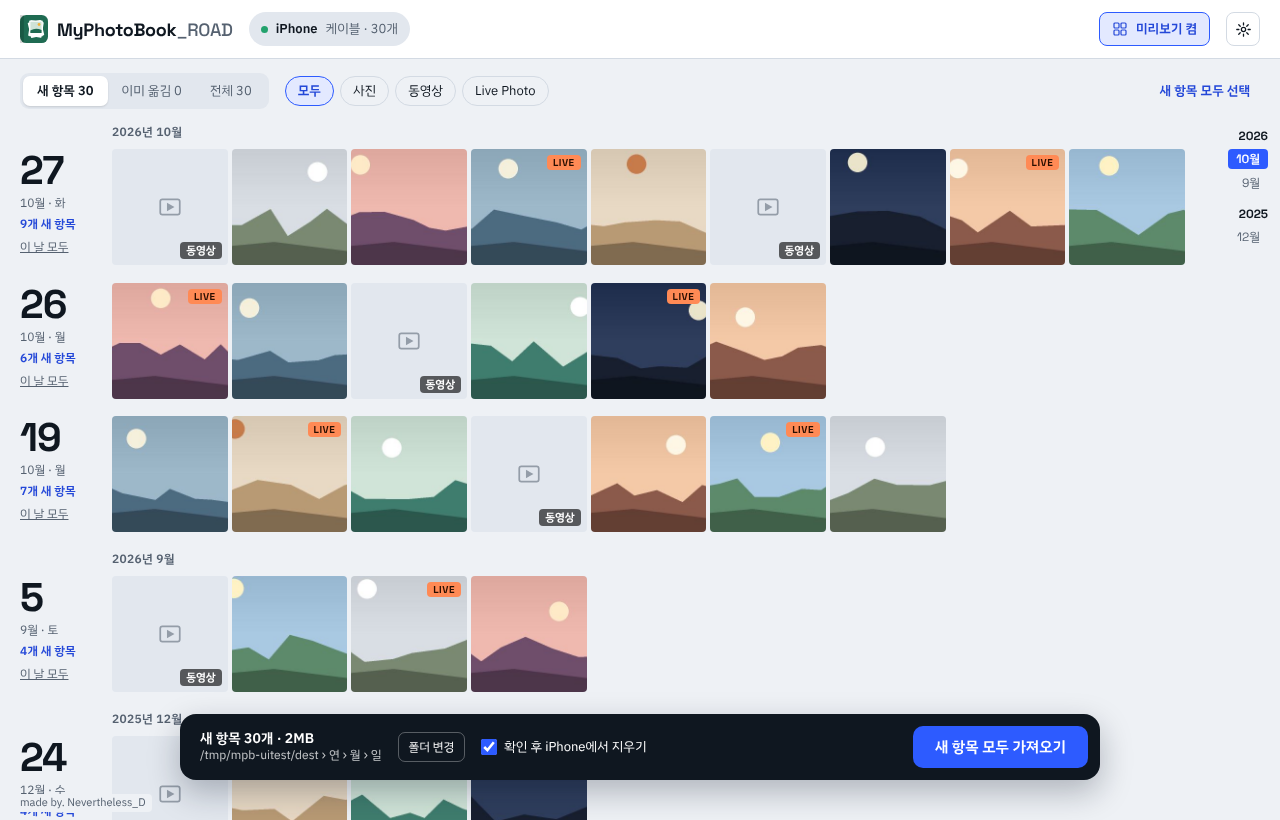
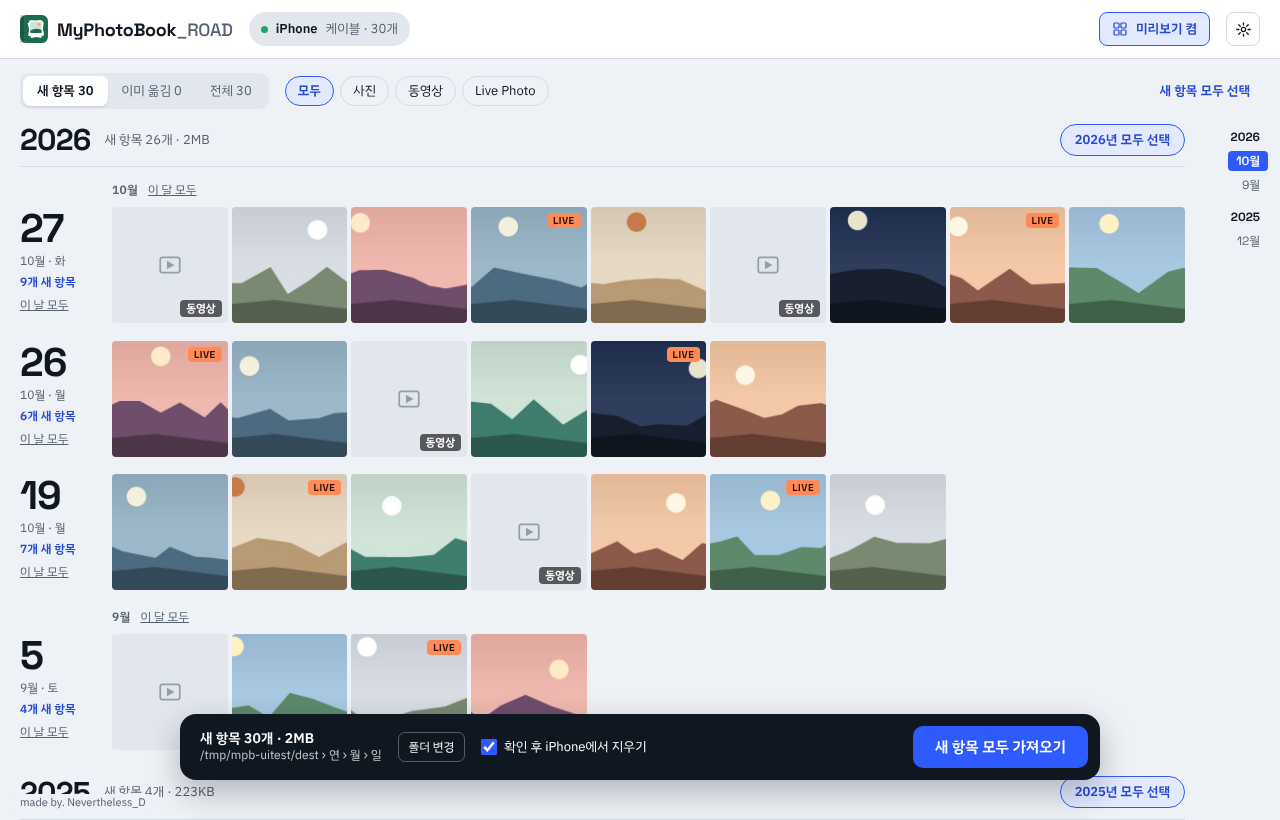
연도별로 통째로 고르기 · 연도로 바로 가기 · 이 달 모두 (v1.0.1)
Claude-Session: https://claude.ai/code/session_01EZmtXyegEgV5JfMnh8ypxP

diff --git a/engine/web/js/app.js b/engine/web/js/app.js
@@ -186,9 +186,9 @@ function renderMainShell() {
     syncSel();
   });
   $('#rail').addEventListener('click', e => {
-    const b = e.target.closest('button[data-m]');
+    const b = e.target.closest('button[data-m], button[data-y]');
     if (!b) return;
-    const sec = sc.querySelector(`[data-month="${b.dataset.m}"]`);
+    const sec = b.dataset.y ? sc.querySelector(`.yearhd[data-year="${b.dataset.y}"]`) : sc.querySelector(`[data-month="${b.dataset.m}"]`);
     if (sec) sc.scrollTo({ top: sec.offsetTop - sc.offsetTop, behavior: 'smooth' });
   });
   $('#actbar').addEventListener('click', onBarClick);
@@ -262,13 +262,28 @@ function renderList() {
     buf = []; cnt = 0; newCnt = 0;
   };
   const months = [];
+  const years = {};
+  for (const a of list) {
+    const y = new Date(a.d * 1000).getFullYear();
+    const yr = years[y] || (years[y] = { n: 0, s: 0, all: 0 });
+    yr.all++;
+    if (pickable(a)) { yr.n++; yr.s += a.s; }
+  }
+  let curYear = null;
   for (const a of list) {
     const d = new Date(a.d * 1000);
     const dk = dayKey(d), mk = dk.slice(0, 7);
     if (dk !== curDay) {
       flush();
+      if (d.getFullYear() !== curYear) {
+        curYear = d.getFullYear();
+        const yr = years[curYear];
+        const what = S.tab === 'done' ? `${N(yr.n)}개 · ${bytes(yr.s)}` : yr.n ? `새 항목 ${N(yr.n)}개 · ${bytes(yr.s)}` : `${N(yr.all)}개 · 모두 옮김`;
+        out.push(`<div class="yearhd" data-year="${curYear}"><span class="yy">${curYear}</span><span class="yc">${what}</span>` +
+          (yr.n ? `<button type="button" class="ysel" data-year="${curYear}">${curYear}년 모두 선택</button>` : '') + `</div>`);
+      }
       if (mk !== curMonth) {
-        out.push(`<div class="month">${d.getFullYear()}년 ${d.getMonth() + 1}월</div>`);
+        out.push(`<div class="month" data-m="${mk}"><span>${d.getMonth() + 1}월</span><button type="button" data-month="${mk}">이 달 모두</button></div>`);
         months.push(mk);
       }
       curDay = dk; curMonth = mk; d0 = d;
@@ -278,11 +293,12 @@ function renderList() {
   flush();
   sc.innerHTML = out.join('');
   sc.scrollTop = top;
+  syncGroupButtons();
   // 연 · 월 이동 막대
   let rail = '', y = '';
   for (const m of months) {
     const [yy, mm] = m.split('-');
-    if (yy !== y) { rail += `<span class="y">${yy}</span>`; y = yy; }
+    if (yy !== y) { rail += `<button type="button" class="y" data-y="${yy}" title="${yy}년으로 가기">${yy}</button>`; y = yy; }
     rail += `<button type="button" data-m="${m}">${Number(mm)}월</button>`;
   }
   $('#rail').innerHTML = rail;
@@ -344,22 +360,56 @@ function renderBar() {
   }
 }
 
+// 고를 수 있는 항목: '이미 옮김' 탭에서는 모두, 그 밖에서는 아직 옮기지 않은 것
+function pickable(a) { return S.tab === 'done' || !a.done; }
+
+function yearOf(a) { return String(new Date(a.d * 1000).getFullYear()); }
+function monthOf(a) { return dayKey(new Date(a.d * 1000)).slice(0, 7); }
+
+// 묶음(연 · 달 · 날)을 한꺼번에 고르거나 풀어요
+function toggleGroup(match) {
+  const pick = visible().filter(a => pickable(a) && match(a));
+  const all = pick.length && pick.every(a => S.sel.has(a.id));
+  pick.forEach(a => all ? S.sel.delete(a.id) : S.sel.add(a.id));
+  syncSel();
+  return !all;
+}
+
+function syncGroupButtons() {
+  const v = visible().filter(pickable);
+  const byYear = {};
+  for (const a of v) {
+    const y = yearOf(a);
+    const g = byYear[y] || (byYear[y] = { n: 0, sel: 0 });
+    g.n++; if (S.sel.has(a.id)) g.sel++;
+  }
+  $$('#scroller .ysel').forEach(b => {
+    const g = byYear[b.dataset.year] || { n: 0, sel: 0 };
+    const on = g.n > 0 && g.sel === g.n;
+    b.classList.toggle('on', on);
+    b.textContent = on ? `${b.dataset.year}년 선택 풀기` : g.sel ? `${b.dataset.year}년 모두 선택 (${N(g.sel)}/${N(g.n)})` : `${b.dataset.year}년 모두 선택`;
+  });
+}
+
 function syncSel() {
   $$('#scroller .tile').forEach(t => { const on = S.sel.has(t.dataset.id); t.classList.toggle('sel', on); t.setAttribute('aria-pressed', String(on)); });
   $$('#scroller input[data-id]').forEach(i => { i.checked = S.sel.has(i.dataset.id); });
+  syncGroupButtons();
   renderBar();
 }
 
 function onListClick(e) {
-  const dayBtn = e.target.closest('button[data-day]');
-  if (dayBtn) {
-    const day = dayBtn.dataset.day;
-    const pick = visible().filter(a => dayKey(new Date(a.d * 1000)) === day && (S.tab === 'done' || !a.done));
-    const all = pick.length && pick.every(a => S.sel.has(a.id));
-    pick.forEach(a => all ? S.sel.delete(a.id) : S.sel.add(a.id));
-    syncSel();
+  const yBtn = e.target.closest('button[data-year]');
+  if (yBtn) {
+    const y = yBtn.dataset.year;
+    const on = toggleGroup(a => yearOf(a) === y);
+    if (on) toast(`${y}년 사진을 모두 골랐어요. 아래 '가져오기'를 누르면 한 번에 옮겨요`);
     return;
   }
+  const mBtn = e.target.closest('button[data-month]');
+  if (mBtn) { toggleGroup(a => monthOf(a) === mBtn.dataset.month); return; }
+  const dayBtn = e.target.closest('button[data-day]');
+  if (dayBtn) { toggleGroup(a => dayKey(new Date(a.d * 1000)) === dayBtn.dataset.day); return; }
   const t = e.target.closest('.tile');
   if (!t) return;
   const id = t.dataset.id;

diff --git a/engine/web/css/app.css b/engine/web/css/app.css
@@ -83,8 +83,15 @@ button:disabled { cursor: default; opacity: .45; }
 /* 본문 */
 .body { flex: 1; min-height: 0; display: flex; gap: 12px; padding: 0 8px 0 20px; }
 .scroller { flex: 1; min-width: 0; overflow-y: auto; padding-bottom: 130px; scrollbar-gutter: stable; }
-.month { font-size: 12px; font-weight: 600; color: var(--muted); letter-spacing: .3px; margin: 14px 0 8px 92px; }
-.month:first-child { margin-top: 0; }
+.yearhd { display: flex; flex-wrap: wrap; align-items: center; gap: 6px 14px; margin: 26px 0 10px; padding-bottom: 10px; border-bottom: 1px solid var(--line); }
+.yearhd:first-child { margin-top: 0; }
+.yearhd .yy { font-family: var(--display); font-weight: 700; font-size: 30px; letter-spacing: -.8px; line-height: 1.1; }
+.yearhd .yc { font-size: 13px; color: var(--muted); }
+.yearhd .ysel { margin-left: auto; height: 32px; padding: 0 14px; border: 1px solid var(--accent); border-radius: 16px; background: var(--accent-soft);
+  color: var(--accent-text); font-size: 13px; font-weight: 600; white-space: nowrap; }
+.yearhd .ysel.on { background: var(--accent); color: #fff; }
+.month { display: flex; align-items: baseline; gap: 10px; font-size: 12px; font-weight: 600; color: var(--muted); letter-spacing: .3px; margin: 14px 0 8px 92px; }
+.month button { padding: 0; border: 0; background: transparent; color: var(--muted); font-size: 12px; font-weight: 400; text-decoration: underline; }
 .sec { display: flex; flex-wrap: wrap; gap: 12px 16px; margin-bottom: 18px; content-visibility: auto; contain-intrinsic-size: auto 240px; }
 .sec .date { flex: 0 0 76px; display: flex; flex-direction: column; line-height: 1.1; }
 .sec .date .d { font-family: var(--display); font-weight: 700; font-size: 40px; letter-spacing: -1px; }
@@ -128,8 +135,9 @@ button:disabled { cursor: default; opacity: .45; }
 .rail { flex: 0 0 60px; overflow-y: auto; display: flex; flex-direction: column; align-items: flex-end; gap: 4px; padding: 4px 4px 130px 0;
   font-family: var(--display); font-size: 12px; color: var(--muted); scrollbar-width: none; }
 .rail::-webkit-scrollbar { display: none; }
-.rail .y { font-weight: 700; color: var(--ink); margin-top: 8px; }
-.rail .y:first-child { margin-top: 0; }
+.rail button.y { font-weight: 700; color: var(--ink); margin-top: 8px; }
+.rail button.y:first-child { margin-top: 0; }
+.rail button.y:hover { background: var(--chip); }
 .rail button { border: 0; background: transparent; padding: 1px 8px; border-radius: 4px; color: var(--muted); font-family: var(--display); font-size: 12px; }
 .rail button.on { background: var(--accent); color: #fff; font-weight: 600; }
 

diff --git a/docs/guide.html b/docs/guide.html
@@ -88,11 +88,11 @@ h2 small { font-size: 14px; font-weight: 400; color: var(--muted); }
   <div class="row c55">
     <div class="card shot"><img src="shots/main.png" alt=""></div>
     <div class="card">
-      <div class="kv"><b>고르기</b><span>사진을 누르면 골라져요. <strong>Shift</strong>를 누른 채 누르면 사이를 한꺼번에, 날짜 옆 <strong>‘이 날 모두’</strong>로 하루치를 골라요. ⌘A는 보이는 것 모두.</span></div>
+      <div class="kv"><b>고르기</b><span>사진을 누르면 골라져요. <strong>Shift</strong>를 누른 채 누르면 사이를 한꺼번에, 날짜 옆 <strong>‘이 날 모두’</strong>, 달 옆 <strong>‘이 달 모두’</strong>, 연도 옆 <strong>‘2021년 모두 선택’</strong>으로 한 해를 통째로 골라요. ⌘A는 보이는 것 모두.</span></div>
       <div class="kv"><b>가져오기</b><span>아래 막대의 <strong>가져오기</strong>. 아무것도 안 고르면 <strong>새 항목 모두 가져오기</strong>예요. 한 번에 옮기는 개수에 제한이 없어요.</span></div>
       <div class="kv"><b>확인</b><span>복사한 뒤 <strong>크기와 내용을 원본과 하나씩 비교</strong>해요. 확인이 끝난 것만 정리 폴더에 들어가요.</span></div>
       <div class="kv"><b>지우기</b><span><strong>‘확인 후 iPhone에서 지우기’</strong>가 켜져 있으면 다 옮긴 뒤 한 번 더 물어봐요. 사진을 골라 <strong>선택 항목 지우기</strong>도 돼요 — 맥에 없는 사진은 <strong>먼저 옮긴 뒤 지우기</strong>가 기본이에요.</span></div>
-      <div class="kv"><b>걸러 보기</b><span><strong>새 항목 · 이미 옮김 · 전체</strong>, 사진 · 동영상 · Live Photo. 오른쪽 <strong>연 · 월</strong>을 누르면 그 달로 가요.</span></div>
+      <div class="kv"><b>걸러 보기</b><span><strong>새 항목 · 이미 옮김 · 전체</strong>, 사진 · 동영상 · Live Photo. 오른쪽 <strong>연도 · 월</strong>을 누르면 그 해 · 그 달로 바로 가요.</span></div>
       <div class="kv"><b>미리보기</b><span>위쪽 <strong>미리보기 켬/끔</strong>. 끄면 그림 없이 목록으로 보여 줘서 훨씬 빨라요.</span></div>
     </div>
   </div>

diff --git a/scripts/ui-test.py b/scripts/ui-test.py
@@ -60,7 +60,24 @@ async def main():
         n = await pg.locator(".tile").count()
         ok("메인: 사진 30개(Live 묶음 포함) 보임", n == 30, f"{n}개")
         ok("Live Photo 표시 8개", await pg.locator(".tile .live").count() == 8)
-        ok("연/월 이동 막대", await pg.locator("#rail button").count() == 3)
+        ok("연/월 이동 막대 (연 2 · 월 3)", await pg.locator("#rail button[data-y]").count() == 2 and await pg.locator("#rail button[data-m]").count() == 3)
+        # 연도 통째로 고르기
+        await pg.click(".ysel[data-year='2026']")
+        txt = await pg.locator(".actbar .info b").inner_text()
+        ok("2026년 모두 선택 → 26개", txt.startswith("26개 선택"), txt)
+        ok("연도 버튼이 '선택 풀기'로 바뀜", "선택 풀기" in await pg.locator(".ysel[data-year='2026']").inner_text())
+        await pg.click("#rail button[data-y='2025']")
+        await pg.wait_for_timeout(900)
+        await pg.screenshot(path=f"{OUT}/01b-year.png")
+        await pg.click(".ysel[data-year='2025']")
+        txt = await pg.locator(".actbar .info b").inner_text()
+        ok("2025년도 더해서 30개", txt.startswith("30개 선택"), txt)
+        await pg.click(".ysel[data-year='2026']"); await pg.click(".ysel[data-year='2025']")
+        ok("다시 누르면 모두 풀림", "새 항목 30개" in await pg.locator(".actbar .info b").inner_text())
+        await pg.click(".month button[data-month='2026-10']")
+        ok("이 달 모두 (10월 22개)", (await pg.locator(".actbar .info b").inner_text()).startswith("22개 선택"))
+        await pg.click(".month button[data-month='2026-10']")
+        await pg.locator("#scroller").evaluate("e => e.scrollTop = 0")
 
         tiles = pg.locator(".tile")
         await tiles.nth(1).click(); await tiles.nth(2).click()

diff --git a/PROJECT_NOTES.md b/PROJECT_NOTES.md
@@ -29,6 +29,9 @@ iPhone 사진 · 동영상을 케이블로 맥(Apple Silicon)에 옮기는 앱. 
 - [ ] 문제가 나면 사용자에게 '진단 정보 보기'(device.log 포함) 내용을 받아서 고치기
 
 ### 작업 기록
+- 2026-10-27 v1.0.1 — 사용자 요청: 연도별로 통째로 골라서 한 번에 옮기기. 목록에 연도 머리(큰 연도 숫자 · 새 항목 수 · 크기 ·
+  'YYYY년 모두 선택' ↔ '선택 풀기', 일부만 골랐으면 (n/전체)), 달 머리에 '이 달 모두', 오른쪽 막대의 연도도 눌러서 그 해로 이동.
+  app.js: toggleGroup · syncGroupButtons · pickable. ui-test.py 에 연도 선택 시험 추가(23개 통과).
 - 2026-10-27 v1.0.0 제작: 엔진(Go) · iPhone 도우미(Swift, ImageCaptureCore) · 화면 · 껍데기 · 아이콘 · 가이드 · 빌드 서버.
   리눅스: go test(가져오기 · 정리 · Live 이름 · 잠김/케이블 빠짐 → 이어 받기 · 앱 꺼짐 → 이어서 · 지우기) + scripts/ui-test.py(18개 통과).
   맥 빌드 서버 1차: iPhone 도우미의 requestContentsAuthorization/requestControlAuthorization 은 macOS 에서 쓸 수 없음(iOS 전용) → 뺌.
